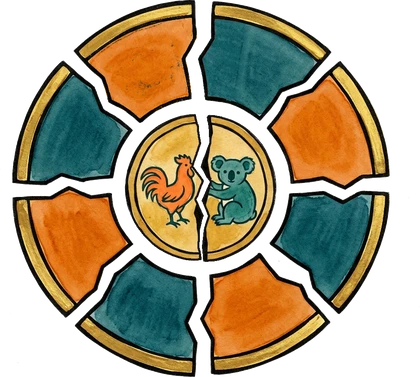
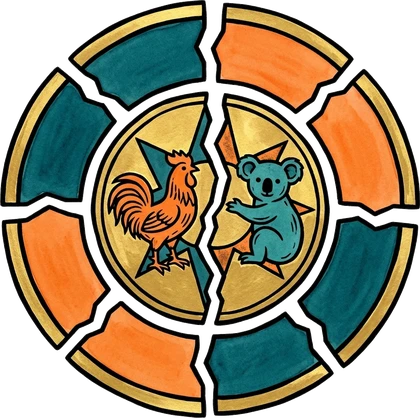
Hero generator: Doron's second shield, with the koala's star in orange
tools/parts/shield.py now builds from parts/raw/shield_v2.jpg: the star
behind the koala goes from teal to orange (Doron's ask), picked out as the
ink-bounded teal regions darker than the koala, recoloured with the outer
orange pieces' colour and texture strength. The rooster keeps its teal star.

Claude-Session: https://claude.ai/code/session_01LEbABatq2x1RfgzwvPNQQJ

diff --git a/tools/parts/shield.py b/tools/parts/shield.py
@@ -1,125 +1,48 @@
-"""The broken shield for the first screen, from Doron's two Gemini drawings (2026-11-08): the star version
-(shield_star) for its jagged cracks, with its pieces recoloured to alternate teal and orange, and the rooster
-and koala from the crests version (shield_crests) in its centre, cut by the star version's crack.
-python3 shield.py <out.webp> [preview.png]   (run from the folder holding parts/raw/*)"""
+"""The broken shield for the first screen: Doron's Gemini drawing (parts/raw/shield_v2.jpg, 2026-11-08), with the
+star behind the koala turned from teal to orange (Doron's ask), so the rooster stands on teal and the koala on
+orange. The star behind the rooster stays teal.
+python3 shield.py <out.webp> [preview.png]   (run from the folder holding parts/raw/*)
+(An earlier version combined two other drawings; it is in the git history of this file.)"""
 import sys, numpy as np
 from PIL import Image
 from scipy import ndimage
-from recolor import rgb2hsv
+from recolor import rgb2hsv, hsv2rgb
 from join import cutout
 
-A = np.asarray(Image.open("shield_star.jpg").convert("RGB")).astype(float) / 255
-B = np.asarray(Image.open("shield_crests.jpg").convert("RGB")).astype(float) / 255
-yy, xx = np.mgrid[0:1024, 0:1024]
-def parts(a):
-    h, s, v = rgb2hsv(a); lum = a @ [0.299, 0.587, 0.114]
-    return h, s, lum, (lum > 0.86) & (s < 0.12)
-h, s, lum, white = parts(A)
-gold = (h >= 36) & (h <= 62) & (s > 0.3) & (lum > 0.35)
-teal = (h > 150) & (h < 215) & (s > 0.15)
-orange = (h > 5) & (h < 35) & (s > 0.3)
-ang = np.degrees(np.arctan2(-(yy - 512), xx - 512)) % 360; rad = np.hypot(xx - 512, yy - 512)
-ring = rad > 200
+A = np.asarray(Image.open("shield_v2.jpg").convert("RGB")).astype(float) / 255
+h, s, v = rgb2hsv(A); lum = A @ [0.299, 0.587, 0.114]
+yy, xx = np.mgrid[0:1024, 0:1024]; rad = np.hypot(xx - 512, yy - 512)
+teal = (h > 150) & (h < 215) & (s > 0.2)
+orange = (h > 5) & (h < 35) & (s > 0.35)
+centre = rad < 255                                   # the centre disc (the gap around it starts at 260)
+right = xx > 515                                     # the koala's half, right of the crack
 
-def sample(img, delta):
-    """img rotated so that what sits at angle a lands at angle a - delta (degrees, counter-clockwise), about the centre."""
-    t = np.radians(delta); x, yu = xx - 512, -(yy - 512)
-    sx = 512 + x * np.cos(t) - yu * np.sin(t); sy = 512 - (x * np.sin(t) + yu * np.cos(t))
-    if img.ndim == 2: return ndimage.map_coordinates(img.astype(float), [sy, sx], order=0) > 0.5
-    return np.dstack([ndimage.map_coordinates(img[..., c], [sy, sx], order=1) for c in range(3)])
+# The drawing's ink lines split the koala's half into regions (the koala, the star's points, the gold). The star's
+# points are the teal regions darker than the koala (mean brightness about 0.34 against the koala's 0.47).
+regions, n = ndimage.label((lum > 0.18) & centre & right)
+star = np.zeros(lum.shape, bool)
+for i in range(1, n + 1):
+    m = regions == i
+    if m.sum() < 30: continue
+    mh = np.degrees(np.arctan2(np.sin(np.radians(h[m])).mean(), np.cos(np.radians(h[m])).mean())) % 360
+    if 150 < mh < 215 and lum[m].mean() < 0.41: star |= m
+inked = ~((lum > 0.18) & centre & right)          # the ink between regions
+star = star | (ndimage.binary_dilation(star, iterations=3) & inked & centre & right)   # and its soft edge into the ink
 
-def wash(mask):                       # a piece's wash, without the darker fringe along its outline
-    return ndimage.binary_erosion(mask & (lum > lum[mask].mean() * 0.75), iterations=3)
+# Recolour: the orange of the outer pieces, with the star's own light and dark at the strength the orange pieces have.
+def spread(m): return (lum[m] / lum[m].mean()).std()
+pieces_o = orange & (rad > 280); target = A[pieces_o].mean(0)
+th, ts, tv = (x[0, 0] for x in rgb2hsv(target[None, None, :]))
+wash = star & (lum > 0.15)
+ratio = lum / lum[wash].mean()
+dev = (ratio - 1) * spread(pieces_o) / spread(wash)
+new = hsv2rgb(np.full_like(lum, th), np.full_like(lum, ts), np.clip(tv * (1 + dev), 0, 1))
+w = (np.clip((ratio - 0.35) / 0.35, 0, 1) * star)[..., None]       # darker than the wash (outline) stays as it was
+out = A * (1 - w) + new * w
 
-def donor_texture(target, donors):
-    """Real watercolour for the pixels of `target`, taken from donor pieces of the right colour, each rotated onto it
-    at the angle that covers it best; what no donor covers gets a smooth fill from around it (no streaks)."""
-    cands = []
-    for mask, nominal in donors:
-        wm = wash(mask)
-        for d in range(nominal - 20, nominal + 21, 2):
-            cands.append(((target & sample(wm, d)).sum(), d, wm))
-    cands.sort(key=lambda c: -c[0])
-    new = np.zeros_like(A); covered = np.zeros(lum.shape, bool); used = []
-    for _, d, wm in cands:
-        if covered[target].all() or len(used) == 3: break
-        if any(abs(d - u) < 10 for u in used): continue
-        Wr = sample(wm, d) & ~covered
-        if (Wr & target).sum() < 200: continue
-        new[Wr] = sample(A, d)[Wr]; covered |= Wr; used.append(d)
-    for sigma in (6, 20, 60):                   # normalised convolution: the average of nearby covered pixels
-        if covered[target].all(): break
-        wsum = ndimage.gaussian_filter(covered.astype(float), sigma)
-        fill = np.dstack([ndimage.gaussian_filter(new[..., c] * covered, sigma) for c in range(3)]) / np.maximum(wsum, 1e-6)[..., None]
-        ok = (wsum > 0.02) & ~covered
-        new[ok] = fill[ok]; covered |= ok
-    return new
-
-def comp(colour_mask, a0, a1):
-    lab, n = ndimage.label(colour_mask & ring)
-    want = np.zeros_like(colour_mask)
-    for i in range(1, n + 1):
-        c = lab == i
-        if c.sum() > 3000 and a0 <= ang[c].mean() <= a1: want |= c
-    return want
-
-def paint(out, region, new, line=None, feather_into=None, feather=14):
-    """Lay `new` over `region`, keeping the piece's black outline (pixels darker than the wash fade back to the
-    original), except `line`, which disappears. With feather_into, the new texture fades into that wash over
-    `feather` px, so no seam shows."""
-    ratio = lum / lum[region & (lum > 0.15)].mean()
-    w = np.clip((ratio - 0.3) / 0.35, 0, 1)
-    if line is not None: w = np.where(line, 1.0, w)
-    area = ndimage.binary_dilation(region | (line if line is not None else False), iterations=6) & ~gold & ~white
-    if feather_into is not None:
-        d = ndimage.distance_transform_edt(~(region | (line if line is not None else False)))
-        area = area | (feather_into & (d < feather)); w = w * np.where(feather_into & ~region, np.clip(1 - d / feather, 0, 1), 1)
-    w = (w * area)[..., None]
-    return out * (1 - w) + new * w
-
-out = A.copy()
-# 1. Pieces counter-clockwise from the right: orange 23, teal 61 (+ an orange sliver at 81), teal 114, teal 158,
-#    orange 202, teal 247, orange 293, teal 339. To alternate, the top-left piece (114) turns orange, repainted from
-#    the orange pieces; in the top-right piece, the sliver and the line beside it turn teal, repainted from the teal
-#    pieces and faded into the piece's own teal.
-orange_pieces = [(comp(orange, a - 15, a + 15), a - 114) for a in (23, 202, 293)]
-teal_pieces = [(comp(teal, a - 15, a + 15), a - 70) for a in (158, 247, 339)]
-top_left = comp(teal, 100, 130)
-tl_area = ndimage.binary_dilation(top_left, iterations=6) & ~gold & ~white
-out = paint(out, top_left, donor_texture(tl_area, orange_pieces))
-tr_teal, tr_sliver = comp(teal, 45, 75), comp(orange, 70, 95)
-edge = ndimage.binary_dilation(gold | white, iterations=7)
-between = ndimage.binary_dilation(tr_teal, iterations=6) & ndimage.binary_dilation(tr_sliver, iterations=6)
-line = ndimage.binary_dilation(between & (lum < 0.35) & ~edge, iterations=4) & ~edge
-tr_area = ndimage.binary_dilation(tr_sliver | line, iterations=22) & ~gold & ~white
-out = paint(out, tr_sliver, donor_texture(tr_area, teal_pieces), line=line, feather_into=tr_teal)
-
-# 2. The centre: the crests version's disc (radius 185) scaled onto the star version's (radius 172), its straight
-#    crack painted over with the gold beside it, then cut by the star version's jagged crack.
-RA, RB = 172, 185
-k = RB / RA
-src_x = 512 + (xx - 512) * k; src_y = 512 + (yy - 512) * k
-Bs = np.dstack([ndimage.map_coordinates(B[..., c], [src_y, src_x], order=1) for c in range(3)])
-hb, sb, lb, wb = parts(Bs)
-crackB = wb & (rad < RA - 4) & (np.abs(xx - 512) < 40)
-crackB = ndimage.binary_dilation(crackB, iterations=5) & (rad < RA - 10)
-crackB &= ~ndimage.binary_dilation(((hb > 5) & (hb < 35) & (sb > 0.35)) | ((hb > 150) & (hb < 215) & (sb > 0.2)), iterations=1)
-# fill the old crack from the nearest gold
-goldB = (hb >= 36) & (hb <= 62) & (sb > 0.3) & ~crackB
-_, (gy, gx) = ndimage.distance_transform_edt(~goldB, return_indices=True)
-fill = Bs.copy(); fill[crackB] = Bs[gy[crackB], gx[crackB]]
-lab, n = ndimage.label(white & (rad < 205))
-gap_labels = set(np.unique(lab[(rad > 180) & (rad < 192) & white])) - {0}
-crackA = np.isin(lab, list(gap_labels)) & (rad < RA + 2)
-disc = (rad <= RA + 1) & ~crackA
-out[disc] = fill[disc]
-d = ndimage.distance_transform_edt(~crackA)
-ink = np.clip(5.5 - d, 0, 1) * (rad < RA - 2) * ~crackA                # a 5 px black edge along the crack, soft outside
-out = out * (1 - ink[..., None]) + np.array([0.07, 0.06, 0.05]) * ink[..., None]
-out[crackA] = A[crackA]
-
-Image.fromarray((np.clip(out, 0, 1) * 255).astype(np.uint8)).save("shield_composed.png")
+img = Image.fromarray((np.clip(out, 0, 1) * 255).astype(np.uint8))
+if len(sys.argv) > 2: img.save(sys.argv[2])
+img.save("shield_composed.png")
 im = cutout("shield_composed.png"); im = im.crop(im.getbbox())
 im.resize((420, round(420 * im.height / im.width)), Image.LANCZOS).save(sys.argv[1], "WEBP", quality=90)
-if len(sys.argv) > 2: Image.fromarray((np.clip(out, 0, 1) * 255).astype(np.uint8)).save(sys.argv[2])
-print("ok")
+print("star px", int(star.sum()))
